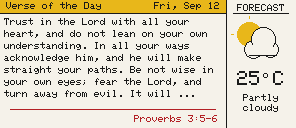
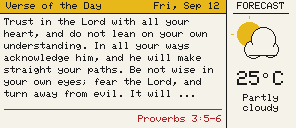
fix(layout): align the weather caption and the caption line to the body margins
Two measured misalignments, both confirmed by pixel-scanning the render:

1. The weather column caption (FORECAST/TOMORROW) was drawn at y=4 while the
   header title/date are at y=2, so it sat 2 px low and only 2 px off the rule
   below it. Now drawn at y=2 (ink rows 2-8, level with the date, 4 px clear of
   the rule at y=13).

2. The caption rule and the pronunciation caption started at x=10, while the
   body text block starts at x=4 (kVerseMargin) - a 6 px offset. The rule now
   spans kVerseMargin..kSplitX-kVerseMargin (x 4..222) and the left caption is
   drawn at the same margin, so the caption line lines up with the text above it
   on both edges. The right caption also ends at the body's right margin.
   The pronunciation is nudged 1 px left because '(' carries a left side
   bearing, so its INK (x=4) matches the rule and body text exactly.

Golden renders in docs/images/ regenerated via verify_all.py --fix.

Changed region(s): [[0.4257, 0.8438, 0.7601, 0.9688], [0.7905, 0.0, 0.973, 0.0938], [0.0, 0.8438, 0.0304, 0.875]]

diff --git a/firmware/src/verse_display.cpp b/firmware/src/verse_display.cpp
@@ -473,10 +473,11 @@ static void drawLandscapeWeatherColumn(int cx, const WeatherData& w, const char*
     static constexpr int kIconMin = 24;   // fixed alert-layout icon size / reflow lower clamp
     static constexpr int kIconMax = 48;   // reflow upper clamp (2x the fixed size)
 
-    // Section caption ("FORECAST" / "TOMORROW"), centred and aligned with the
-    // yellow header box's bottom rule (y=13).
+    // Section caption ("FORECAST" / "TOMORROW"), centred and baseline-aligned
+    // with the header title/date (y=2) so it sits level with the date and keeps
+    // clear of the rule below.
     int fcWidth = dev_measureText(label, 1);
-    dev_drawString(cx - fcWidth / 2, 4, label, CC_BLACK, 1);
+    dev_drawString(cx - fcWidth / 2, 2, label, CC_BLACK, 1);
     dev_drawFastHLine(cx - kHalf, 13, 2 * kHalf, CC_BLACK);   // aligns with header bottom (headerH-1)
 
     char tbuf[16];
@@ -585,21 +586,26 @@ void drawLayout(const VerseData& v, const WeatherData& w, const LayoutOptions& o
 
     // 3. Caption line: red rule with an optional black caption at the left
     //    (Word-of-the-Day pronunciation) and an optional red caption at the
-    //    right (verse reference, or the Word-of-the-Day headword).
+    //    right (verse reference, or the Word-of-the-Day headword). The rule and
+    //    both captions share the body text block's left/right margins
+    //    (kVerseMargin) so the whole caption line lines up with the text above.
     if (v.reference || opts.leftCaption) {
-        dev_drawFastHLine(10, kReferenceY, kSplitX - 20, CC_RED);
+        dev_drawFastHLine(kVerseMargin, kReferenceY, kSplitX - 2 * kVerseMargin, CC_RED);
         // Right caption (red) is placed first; the left caption (black) is only
         // drawn if it still clears it, so a long word + long respelling degrades
         // by dropping the pronunciation rather than overprinting.
-        int rightEdge = kSplitX - 8;
+        int rightEdge = kSplitX - kVerseMargin;
         if (v.reference) {
             dev_drawStringRight(rightEdge, kReferenceY + 6, v.reference, CC_RED, 1);
             rightEdge -= dev_measureText(v.reference, 1);
         }
         if (opts.leftCaption) {
             int leftW = dev_measureText(opts.leftCaption, 1);
-            if (10 + leftW + 8 <= rightEdge)
-                dev_drawString(10, kReferenceY + 6, opts.leftCaption, CC_BLACK, 1);
+            // The caption always starts with '(' , which carries a 1 px left side
+            // bearing; nudge 1 px left so its INK lines up with the rule start and
+            // the body text's left edge rather than sitting 1 px inside them.
+            if (kVerseMargin + leftW + 8 <= rightEdge)
+                dev_drawString(kVerseMargin - 1, kReferenceY + 6, opts.leftCaption, CC_BLACK, 1);
         }
     }
 
